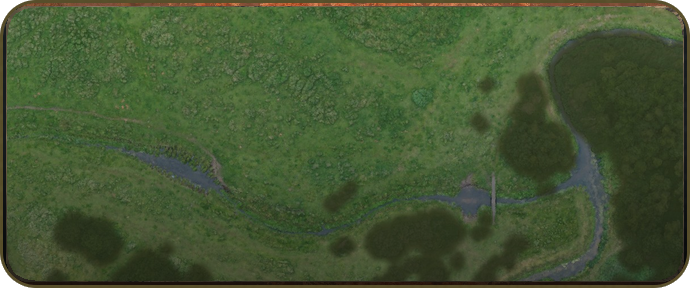
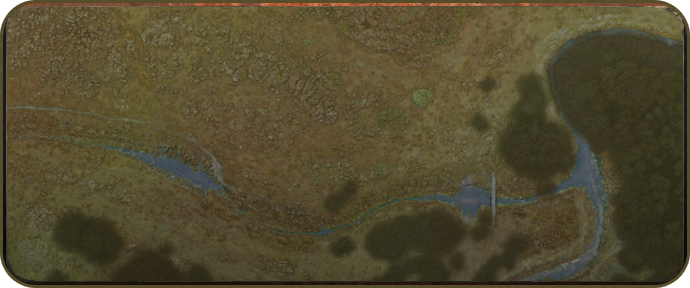
Map seasons: Highlands under snow, Oakwood in autumn (Valley green) - in a match the ground, the grain, the trees' and bushes' leaves and the minimap take the look's own textures (scripts/unity/map-looks.py -> Maps/*_snow|_autumn, Resources/Looks/<look>/); the lobby's map cards in the same seasons; 
Claude-Session: https://claude.ai/code/session_01Qk5AhTg9vjZDbHQRN5Qkh8

diff --git a/scripts/unity/map-looks.py b/scripts/unity/map-looks.py
@@ -1,0 +1,112 @@
+#!/usr/bin/env python3
+"""Season looks for the green maps (they looked alike): Highlands under snow, Oakwood in autumn, Valley as it is.
+
+Writes, from the game's own textures:
+  Resources/Maps/<albedo>_<look>.jpg          the ground (green_albedo_snow, forest_albedo_autumn)
+  Resources/Maps/detail_snow.png, detail_grass_autumn.png   the close-up grain
+  Resources/Looks/<look>/<model>_<tex>.png    tree / bush leaves (MapBuilder.LookMat swaps them in by name)
+Snow: the ground white where it was grass, rock and paths showing through in part; every leaf dusted with snow.
+Autumn: grass turned golden / dry; oak and bush leaves orange, red and yellow (one colour per model, each with its own
+shades); pines stay green (evergreen).
+
+  python3 scripts/unity/map-looks.py
+"""
+import os, colorsys
+import numpy as np
+from PIL import Image
+
+ROOT = os.path.join(os.path.dirname(__file__), '..', '..', 'unity', 'Assets', 'LastWar')
+MAPS = os.path.join(ROOT, 'Resources', 'Maps'); TEX = os.path.join(ROOT, 'Textures'); LOOKS = os.path.join(ROOT, 'Resources', 'Looks')
+rng = np.random.default_rng(7)
+
+
+def hsv(a):
+    """float RGB (h, w, 3) 0..1 -> h, s, v arrays"""
+    mx, mn = a.max(2), a.min(2); d = mx - mn + 1e-6; r, g, b = a[..., 0], a[..., 1], a[..., 2]
+    h = np.where(mx == r, ((g - b) / d) % 6, np.where(mx == g, (b - r) / d + 2, (r - g) / d + 4)) / 6.0
+    s = np.where(mx > 0, (mx - mn) / (mx + 1e-6), 0); return h, s, mx
+
+
+def rgb(h, s, v):
+    i = np.floor(h * 6).astype(int) % 6; f = h * 6 - np.floor(h * 6)
+    p, q, t = v * (1 - s), v * (1 - f * s), v * (1 - (1 - f) * s)
+    out = np.zeros(h.shape + (3,))
+    for k, (r, g, b) in enumerate([(v, t, p), (q, v, p), (p, v, t), (p, q, v), (t, p, v), (v, p, q)]):
+        m = i == k; out[m, 0], out[m, 1], out[m, 2] = r[m], g[m], b[m]
+    return out
+
+
+def noise(h, w, scale=48):
+    """soft blotches 0..1 (patches of colour, not a flat tint)"""
+    n = rng.random((max(2, h // scale), max(2, w // scale)))
+    return np.asarray(Image.fromarray((n * 255).astype(np.uint8)).resize((w, h), Image.BICUBIC), np.float32) / 255
+
+
+def greenness(a):
+    h, s, v = hsv(a)
+    return np.clip((s - 0.08) / 0.25, 0, 1) * np.clip(1 - np.abs(h - 0.27) / 0.16, 0, 1)  # (hue ~ 100 degrees: grass / leaves)
+
+
+def snow_ground(a):
+    g = greenness(a); lum = a.mean(2, keepdims=True)
+    amt = np.clip(0.55 + 0.4 * g[..., None] + 0.15 * (noise(*a.shape[:2], 64)[..., None] - 0.5), 0, 0.97)
+    white = np.array([0.9, 0.93, 0.97]) * (0.82 + 0.3 * lum)  # (the ground's own shading kept in the snow)
+    navy = (a[..., 2] > a[..., 0] + 0.02) & (lum[..., 0] < 0.25)  # (the dark sea floor round the island stays)
+    amt[navy] = 0
+    return a * (1 - amt) + white * amt
+
+
+def autumn_ground(a):
+    h, s, v = hsv(a); g = greenness(a); n = noise(*a.shape[:2], 80)
+    th = 0.09 + 0.05 * n  # golden-yellow to straw
+    h2 = h * (1 - g) + th * g; s2 = s * (1 - g) + np.clip(s * 1.05, 0, 0.75) * g; v2 = v * (1 - g * 0.05)
+    return rgb(h2 % 1, s2, v2)
+
+
+def snow_leaves(a):
+    lum = a[..., :3].mean(2, keepdims=True)
+    up = noise(*a.shape[:2], 24)[..., None]
+    amt = np.clip(0.45 + 0.35 * up, 0, 0.85)
+    out = a.copy(); out[..., :3] = a[..., :3] * (1 - amt) + np.array([0.9, 0.93, 0.98]) * (0.75 + 0.4 * lum) * amt
+    return out
+
+
+def autumn_leaves(a, hue):
+    h, s, v = hsv(a[..., :3]); n = noise(*a.shape[:2], 20)
+    g = np.clip(greenness(a[..., :3]) * 1.4, 0, 1)
+    h2 = h * (1 - g) + (hue + 0.05 * (n - 0.5)) * g
+    s2 = s * (1 - g) + np.clip(s * 1.4 + 0.2, 0, 0.95) * g; v2 = v * (1 - g) + np.clip(v * 1.25, 0, 1) * g
+    out = a.copy(); out[..., :3] = rgb(h2 % 1, s2, v2); return out
+
+
+def load(p):
+    im = Image.open(p); mode = im.mode
+    return np.asarray(im.convert('RGBA' if mode == 'RGBA' else 'RGB'), np.float32) / 255, mode
+
+
+def save(a, p, mode='RGB', q=90):
+    os.makedirs(os.path.dirname(p), exist_ok=True)
+    im = Image.fromarray((np.clip(a, 0, 1) * 255).astype(np.uint8), 'RGBA' if a.shape[2] == 4 else 'RGB')
+    im.save(p, quality=q) if p.endswith('.jpg') else im.save(p); print('wrote', os.path.relpath(p, ROOT), im.size)
+
+
+# the ground
+a, _ = load(f'{MAPS}/green_albedo.jpg'); save(snow_ground(a), f'{MAPS}/green_albedo_snow.jpg')
+a, _ = load(f'{MAPS}/forest_albedo.jpg'); save(autumn_ground(a), f'{MAPS}/forest_albedo_autumn.jpg')
+a, _ = load(f'{MAPS}/detail_grass.png'); save(snow_ground(a), f'{MAPS}/detail_snow.png'); save(autumn_ground(a), f'{MAPS}/detail_grass_autumn.png')
+# the leaves (texture 1 of each tree / bush model; 0 is the bark)
+AUTUMN = {'toak1': 0.07, 'toak2': 0.02, 'tbush1': 0.12, 'tbush2': 0.075, 'tbush3': 0.0}  # orange, red-orange, yellow, orange, red
+for model in ['tpine1', 'tpine2', 'tpine3', 'tpine4', 'toak1', 'toak2', 'tbush1', 'tbush2', 'tbush3']:
+    src = f'{TEX}/{model}/1_c.png'
+    if not os.path.exists(src): continue
+    a, _ = load(src)
+    save(snow_leaves(a), f'{LOOKS}/snow/{model}_1_c.png')
+    if model in AUTUMN: save(autumn_leaves(a, AUTUMN[model]), f'{LOOKS}/autumn/{model}_1_c.png')
+
+# the lobby's map cards in the same seasons (their pictures were green as well)
+UI = os.path.join(ROOT, 'Resources', 'UI', 'Lobby')
+for card, fn in (('mapcard_green', snow_ground), ('mapcard_forest', autumn_ground)):
+    src = f'{UI}/{card}_orig.png'
+    if not os.path.exists(src): os.rename(f'{UI}/{card}.png', src)  # (the green original kept beside it)
+    a, mode = load(src)
+    out = a.copy(); out[..., :3] = fn(a[..., :3]); save(out, f'{UI}/{card}.png')

diff --git a/unity/Assets/LastWar/Scripts/Runtime/MapBuilder.cs b/unity/Assets/LastWar/Scripts/Runtime/MapBuilder.cs
@@ -1,3 +1,4 @@
+using System.Linq;
 using System;
 using System.Collections.Generic;
 using UnityEngine;
@@ -31,6 +32,7 @@ namespace LastWar
 
         public static GameObject Build(MapData map)
         {
+            Look = LookOf(map);
             currentMap = map; propBounds.Clear();
             var root = new GameObject("Map " + map.id);
             MakeIsland(map);
@@ -243,7 +245,7 @@ namespace LastWar
             mesh.RecalculateNormals(); mesh.RecalculateBounds();
 
             Texture2D tex = null;
-            if (!string.IsNullOrEmpty(map.albedo)) tex = Resources.Load<Texture2D>("Maps/" + map.albedo);
+            tex = Albedo(map);
             if (tex == null) tex = HeightColours(map);
             tex.wrapMode = TextureWrapMode.Clamp; tex.anisoLevel = 8;
 
@@ -257,7 +259,7 @@ namespace LastWar
                 terrainMat = new Material(baseTerrain);
                 terrainMat.SetTexture("_BaseMap", tex);
                 // desert: sand grain instead of grass
-                var detail = Resources.Load<Texture2D>(map.id == "desert" || map.id == "valley" ? "Maps/detail_sand" : "Maps/detail_grass");
+                var detail = Resources.Load<Texture2D>(map.id == "desert" || map.id == "valley" ? "Maps/detail_sand" : Look == "snow" ? "Maps/detail_snow" : Look == "autumn" ? "Maps/detail_grass_autumn" : "Maps/detail_grass");
                 if (detail != null) { detail.wrapMode = TextureWrapMode.Repeat; detail.anisoLevel = 8; terrainMat.SetTexture("_DetailAlbedoMap", detail); }
                 terrainMat.SetTextureScale("_DetailAlbedoMap", Vector2.one * (map.size / 1.6f));
             }
@@ -381,7 +383,7 @@ namespace LastWar
                 foreach (Renderer r in inst.GetComponentsInChildren<Renderer>(true))
                 {
                     var mats = r.sharedMaterials;
-                    for (int k = 0; k < mats.Length; k++) mats[k] = LitFrom(mats[k]);
+                    for (int k = 0; k < mats.Length; k++) mats[k] = LookMat(LitFrom(mats[k]), p.p);
                     r.sharedMaterials = mats;
                 }
             }
@@ -403,6 +405,40 @@ namespace LastWar
 
         static readonly Dictionary<Material, Material> litCache = new Dictionary<Material, Material>();
         /// <summary>glTF material -> URP Lit (opaque or alpha-cutout), shared per source material</summary>
+        /// <summary>each green map its own season (they looked alike): Highlands under snow, Oakwood in autumn, Valley
+        /// green - only in a match (the lobby stands on Highlands as it was). The ground and the trees / bushes take the
+        /// look's own textures (Resources/Looks/&lt;look&gt;/; scripts/unity/map-looks.py); ?look=none|snow|autumn to try</summary>
+        public static string Look = "";
+        public static string LookOf(MapData map)
+        {
+            string u = Application.absoluteURL ?? ""; int li = u.IndexOf("look=");
+            if (li >= 0) { string v = new string(u.Substring(li + 5).TakeWhile(char.IsLetter).ToArray()); return v == "none" ? "" : v; }
+            if (!GameBoot.InMatch) return "";
+            return map.id == "green" ? "snow" : map.id == "forest" ? "autumn" : "";
+        }
+        static readonly Dictionary<(Material, string), Material> lookMats = new Dictionary<(Material, string), Material>();
+        /// <summary>a prop's material in the map's look: its colour texture swapped for Looks/&lt;look&gt;/&lt;model&gt;_&lt;texture&gt;</summary>
+        static Material LookMat(Material m, string model)
+        {
+            if (string.IsNullOrEmpty(Look) || m == null || !m.HasProperty("_BaseMap")) return m;
+            Texture t = m.GetTexture("_BaseMap"); if (t == null) return m;
+            string key = model + "_" + t.name;
+            if (lookMats.TryGetValue((m, Look + key), out Material lm)) return lm;
+            var v = Resources.Load<Texture2D>($"Looks/{Look}/{key}");
+            lm = m;
+            if (v != null) { lm = new Material(m) { name = m.name + " " + Look }; lm.SetTexture("_BaseMap", v); if (lm.HasProperty("_MainTex")) lm.SetTexture("_MainTex", v); }
+            lookMats[(m, Look + key)] = lm;
+            return lm;
+        }
+        /// <summary>the map's ground texture in its look (Maps/&lt;albedo&gt;_&lt;look&gt;), else its own</summary>
+        public static Texture2D Albedo(MapData map)
+        {
+            if (string.IsNullOrEmpty(map.albedo)) return null;
+            string look = LookOf(map);
+            Texture2D t = !string.IsNullOrEmpty(look) ? Resources.Load<Texture2D>($"Maps/{map.albedo}_{look}") : null;
+            return t != null ? t : Resources.Load<Texture2D>("Maps/" + map.albedo);
+        }
+
         public static Material LitFrom(Material src)
         {
             if (src == null) return NewLit(Color.white);

diff --git a/unity/Assets/LastWar/Scripts/Runtime/Minimap.cs b/unity/Assets/LastWar/Scripts/Runtime/Minimap.cs
@@ -61,7 +61,7 @@ namespace LastWar
             // background: generated colours + aerial photo
             var photo = new GameObject("photo", typeof(RectTransform), typeof(RawImage)).GetComponent<RawImage>();
             photo.transform.SetParent(content, false); UiKit.Fill(photo.rectTransform); photo.raycastTarget = false;
-            Texture2D tex = !string.IsNullOrEmpty(map.albedo) ? Resources.Load<Texture2D>("Maps/" + map.albedo) : null;
+            Texture2D tex = MapBuilder.Albedo(map); // (in the map's look: snow / autumn)
             photo.texture = tex != null ? tex : HeightTexture();
 
             shade = new GameObject("outside", typeof(RectTransform)).GetComponent<RectTransform>();
